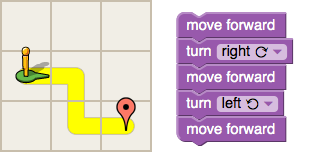
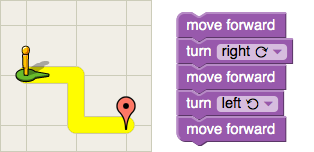
Merge UI upgrades to the Maze fram branch to trunk.

Changed region(s): [[0.0, 0.0, 0.4873, 1.0]]

diff --git a/apps/maze/maze.js b/apps/maze/maze.js
@@ -166,6 +166,8 @@ Maze.map = [
   [0, 2, 1, 1, 1, 0, 1, 0],
   [0, 0, 0, 0, 0, 0, 0, 0]]
 ][Maze.LEVEL];
+// Add blank row at top for hint bubble.
+Maze.map.unshift([0, 0, 0, 0, 0, 0, 0, 0]);
 
 /**
  * Measure maze dimensions and set sizes.
@@ -205,103 +207,25 @@ Maze.startDirection = Maze.DirectionType.EAST;
  */
 Maze.pidList = [];
 
-Maze.deadEnd = function(x, y, angle) {
-  var path = document.createElementNS(Blockly.SVG_NS, 'path');
-  path.setAttribute('d',
-      'M' + (x + Maze.PATH_WIDTH) + ',' + (y + Maze.SQUARE_SIZE) +
-      ' v' + -Maze.SQUARE_SIZE / 2 +
-      ' a' + (Maze.PATH_WIDTH / 2) + ',' + (Maze.PATH_WIDTH / 2) + ' 0 0,1 ' +
-          Maze.PATH_WIDTH + ',0' +
-      ' v' + Maze.SQUARE_SIZE / 2);
-  path.setAttribute('fill', 'yellow');
-  path.setAttribute('stroke-width', 1);
-  path.setAttribute('stroke', '#C8BEAE');
-  path.setAttribute('transform', 'rotate(' + angle + ' ' +
-      (x + Maze.SQUARE_SIZE / 2) + ' ' + (y + Maze.SQUARE_SIZE / 2) + ')');
-  return path;
-};
-
-Maze.thru = function(x, y, angle) {
-  var rect = document.createElementNS(Blockly.SVG_NS, 'rect');
-  rect.setAttribute('x', x + Maze.PATH_WIDTH);
-  rect.setAttribute('y', y);
-  rect.setAttribute('width', Maze.PATH_WIDTH);
-  rect.setAttribute('height', Maze.SQUARE_SIZE);
-  rect.setAttribute('fill', 'yellow');
-  rect.setAttribute('stroke-width', 1);
-  rect.setAttribute('stroke', '#C8BEAE');
-  rect.setAttribute('transform', 'rotate(' + angle + ' ' +
-      (x + Maze.SQUARE_SIZE / 2) + ' ' + (y + Maze.SQUARE_SIZE / 2) + ')');
-  return rect;
-};
-
-Maze.elbow = function(x, y, angle) {
-  var rx = Maze.PATH_WIDTH / 2;
-  var path = document.createElementNS(Blockly.SVG_NS, 'path');
-  path.setAttribute('fill', 'yellow');
-  path.setAttribute('stroke-width', 1);
-  path.setAttribute('stroke', '#C8BEAE');
-  path.setAttribute('d',
-      'M' + (x + Maze.PATH_WIDTH) + ',' + (y + Maze.SQUARE_SIZE) +
-      ' v' + -(Maze.SQUARE_SIZE / 2) +
-      ' a' + rx + ',' + rx + ' 0 0,1 ' + rx + ',' + -rx +
-      ' h' + (Maze.SQUARE_SIZE / 2) +
-      ' v' + Maze.PATH_WIDTH +
-      ' h' + -Maze.PATH_WIDTH +
-      ' v' + Maze.PATH_WIDTH);
-  path.setAttribute('transform', 'rotate(' + angle + ' ' +
-      (x + Maze.SQUARE_SIZE / 2) + ' ' + (y + Maze.SQUARE_SIZE / 2) + ')');
-  return path;
-};
-
-Maze.junction = function(x, y, angle) {
-  var path = document.createElementNS(Blockly.SVG_NS, 'path');
-  path.setAttribute('fill', 'yellow');
-  path.setAttribute('stroke-width', 1);
-  path.setAttribute('stroke', '#C8BEAE');
-  path.setAttribute('d', 'M' + (x + Maze.PATH_WIDTH) + ',' + y +
-      ' h' + Maze.PATH_WIDTH + ' v' + Maze.PATH_WIDTH +
-      ' h' + Maze.PATH_WIDTH + ' v' + Maze.PATH_WIDTH +
-      ' h' + -Maze.PATH_WIDTH + ' v' + Maze.PATH_WIDTH +
-      ' h' + -Maze.PATH_WIDTH + ' v' + -Maze.SQUARE_SIZE);
-  path.setAttribute('transform', 'rotate(' + angle + ' ' +
-      (x + Maze.SQUARE_SIZE / 2) + ' ' + (y + Maze.SQUARE_SIZE / 2) + ')');
-  return path;
-};
-
-Maze.cross = function(x, y, angle) {
-  var path = document.createElementNS(Blockly.SVG_NS, 'path');
-  path.setAttribute('fill', 'yellow');
-  path.setAttribute('stroke-width', 1);
-  path.setAttribute('stroke', '#C8BEAE');
-  path.setAttribute('d', 'M' + (x + Maze.PATH_WIDTH) + ',' + y +
-      ' h' + Maze.PATH_WIDTH + ' v' + Maze.PATH_WIDTH +
-      ' h' + Maze.PATH_WIDTH + ' v' + Maze.PATH_WIDTH +
-      ' h' + -Maze.PATH_WIDTH + ' v' + Maze.PATH_WIDTH +
-      ' h' + -Maze.PATH_WIDTH + ' v' + -Maze.PATH_WIDTH +
-      ' h' + -Maze.PATH_WIDTH + ' v' + -Maze.PATH_WIDTH +
-      ' h' + Maze.PATH_WIDTH + ' v' + -Maze.PATH_WIDTH);
-  path.setAttribute('transform', 'rotate(' + angle + ' ' +
-      (x + Maze.SQUARE_SIZE / 2) + ' ' + (y + Maze.SQUARE_SIZE / 2) + ')');
-  return path;
-};
-
+// Map each possible shape to a sprite.
+// Input: Binary string representing Centre/North/West/South/East squares.
+// Output: [x, y] coordinates of each tile's sprite in tiles.png.
 Maze.tile_SHAPES = {
-  '10010': [Maze.deadEnd, 0],
-  '10001': [Maze.deadEnd, 90],
-  '11000': [Maze.deadEnd, 180],
-  '10100': [Maze.deadEnd, -90],
-  '11010': [Maze.thru, 0],
-  '10101': [Maze.thru, 90],
-  '10110': [Maze.elbow, 0],
-  '10011': [Maze.elbow, 90],
-  '11001': [Maze.elbow, 180],
-  '11100': [Maze.elbow, -90],
-  '11110': [Maze.junction, 0],
-  '10111': [Maze.junction, 90],
-  '11011': [Maze.junction, 180],
-  '11101': [Maze.junction, -90],
-  '11111': [Maze.cross, -90]
+  '10010': [4, 0],  // Dead ends
+  '10001': [3, 3],
+  '11000': [0, 1],
+  '10100': [0, 2],
+  '11010': [4, 1],  // Vertical
+  '10101': [3, 2],  // Horizontal
+  '10110': [0, 0],  // Elbows
+  '10011': [2, 0],
+  '11001': [4, 2],
+  '11100': [2, 3],
+  '11110': [1, 1],  // Junctions
+  '10111': [1, 0],
+  '11011': [2, 1],
+  '11101': [1, 2],
+  '11111': [2, 2]   // Cross
 };
 
 Maze.drawMap = function() {
@@ -313,8 +237,32 @@ Maze.drawMap = function() {
   square.setAttribute('height', Maze.MAZE_HEIGHT);
   square.setAttribute('fill', '#F1EEE7');
   square.setAttribute('stroke-width', 1);
-  square.setAttribute('stroke', '#C8BEAE');
+  square.setAttribute('stroke', '#CCB');
   svg.appendChild(square);
+
+  // Draw the grid lines.
+  // The grid lines are offset so that the lines pass through the centre of
+  // each square.  A half-pixel offset is also added to as standard SVG
+  // practice to avoid blurriness.
+  var offset = Maze.SQUARE_SIZE / 2 + 0.5;
+  for (var k = 0; k < Maze.ROWS; k++) {
+    var h_line = document.createElementNS(Blockly.SVG_NS, 'line');
+    h_line.setAttribute('y1', k * Maze.SQUARE_SIZE + offset);
+    h_line.setAttribute('x2', Maze.MAZE_WIDTH);
+    h_line.setAttribute('y2', k * Maze.SQUARE_SIZE + offset);
+    h_line.setAttribute('stroke', '#CCB');
+    h_line.setAttribute('stroke-width', 1);
+    svg.appendChild(h_line);
+  }
+  for (var k = 0; k < Maze.COLS; k++) {
+    var v_line = document.createElementNS(Blockly.SVG_NS, 'line');
+    v_line.setAttribute('x1', k * Maze.SQUARE_SIZE + offset);
+    v_line.setAttribute('x2', k * Maze.SQUARE_SIZE + offset);
+    v_line.setAttribute('y2', Maze.MAZE_HEIGHT);
+    v_line.setAttribute('stroke', '#CCB');
+    v_line.setAttribute('stroke-width', 1);
+    svg.appendChild(v_line);
+  }
 
   // Draw the tiles making up the maze map.
 
@@ -328,6 +276,7 @@ Maze.drawMap = function() {
   };
 
   // Compute and draw the tile for each square.
+  var tileId = 0;
   for (var y = 0; y < Maze.ROWS; y++) {
     for (var x = 0; x < Maze.COLS; x++) {
       // Compute the tile index.
@@ -339,32 +288,33 @@ Maze.drawMap = function() {
 
       // Draw the tile (or nothing, if wall).
       if (Maze.tile_SHAPES[tile]) {
-        var shape = Maze.tile_SHAPES[tile][0];
-        var angle = Maze.tile_SHAPES[tile][1];
-        svg.appendChild(shape(x * Maze.SQUARE_SIZE,
-                              y * Maze.SQUARE_SIZE, angle));
+        var left = Maze.tile_SHAPES[tile][0];
+        var top = Maze.tile_SHAPES[tile][1];
+        // Tile's clipPath element.
+        var tileClip = document.createElementNS(Blockly.SVG_NS, 'clipPath');
+        tileClip.setAttribute('id', 'tileClipPath' + tileId);
+        var clipRect = document.createElementNS(Blockly.SVG_NS, 'rect');
+        clipRect.setAttribute('width', Maze.SQUARE_SIZE);
+        clipRect.setAttribute('height', Maze.SQUARE_SIZE);
+
+        clipRect.setAttribute('x', x * Maze.SQUARE_SIZE);
+        clipRect.setAttribute('y', y * Maze.SQUARE_SIZE);
+
+        tileClip.appendChild(clipRect);
+        svg.appendChild(tileClip);
+        // Tile sprite.
+        var tile = document.createElementNS(Blockly.SVG_NS, 'image');
+        tile.setAttributeNS('http://www.w3.org/1999/xlink', 'xlink:href',
+            'tiles.png');
+        tile.setAttribute('height', Maze.SQUARE_SIZE * 4);
+        tile.setAttribute('width', Maze.SQUARE_SIZE * 5);
+        tile.setAttribute('clip-path', 'url(#tileClipPath' + tileId + ')');
+        tile.setAttribute('x', (x - left) * Maze.SQUARE_SIZE);
+        tile.setAttribute('y', (y - top) * Maze.SQUARE_SIZE);
+        svg.appendChild(tile);
+        tileId++;
       }
     }
-  }
-
-  // Draw the grid lines.
-  for (var k = 1; k < Maze.ROWS; k++) {
-    var h_line = document.createElementNS(Blockly.SVG_NS, 'line');
-    h_line.setAttribute('y1', k * Maze.SQUARE_SIZE);
-    h_line.setAttribute('x2', Maze.MAZE_WIDTH);
-    h_line.setAttribute('y2', k * Maze.SQUARE_SIZE);
-    h_line.setAttribute('stroke', '#C8BEAE');
-    h_line.setAttribute('stroke-width', 2);
-    svg.appendChild(h_line);
-  }
-  for (var k = 1; k < Maze.COLS; k++) {
-    var v_line = document.createElementNS(Blockly.SVG_NS, 'line');
-    v_line.setAttribute('x1', k * Maze.SQUARE_SIZE);
-    v_line.setAttribute('x2', k * Maze.SQUARE_SIZE);
-    v_line.setAttribute('y2', Maze.MAZE_HEIGHT);
-    v_line.setAttribute('stroke', '#C8BEAE');
-    v_line.setAttribute('stroke-width', 2);
-    svg.appendChild(v_line);
   }
 
   // Add finish marker.

diff --git a/apps/maze/template.js b/apps/maze/template.js
@@ -5,11 +5,11 @@ if (typeof mazepage == 'undefined') { var mazepage = {}; }
 
 
 mazepage.start = function(opt_data, opt_ignored, opt_ijData) {
-  var output = '<table width="100%" height="100%"><tr><td width="410" valign="top"><h1><a href="http://blockly.googlecode.com/">Blockly</a> &gt; <a href="../index.html">Apps</a> &gt; ' + soy.$$escapeHtml(opt_ijData.MSG.title) + '</h1><p class="levelLine">' + soy.$$escapeHtml(opt_ijData.MSG.level) + ': &nbsp;';
+  var output = '<table width="100%" height="100%"><tr><td width="410" valign="top"><h1><a href="http://blockly.googlecode.com/">Blockly</a> &gt; <a href="../index.html">Apps</a> &gt; ' + soy.$$escapeHtml(opt_ijData.MSG.title) + '</h1><div>' + soy.$$escapeHtml(opt_ijData.MSG.level) + ': &nbsp;';
   for (var i8 = 1; i8 < 11; i8++) {
     output += (i8 == opt_ijData.level) ? '<span class="tab" id="selected">' + soy.$$escapeHtml(i8) + '</span>' : '<a class="tab" href="?level=' + soy.$$escapeHtml(i8) + '">' + soy.$$escapeHtml(i8) + '</a>';
   }
-  output += '</p><div id="bubble"><div id="hint">' + soy.$$escapeHtml(opt_ijData.MSG.hints[opt_ijData.level]) + '</div></div><div id="capacity"></div><img id="pegman_bubble" height=42 width=55 src="pegman_bubble.png"><div><svg xmlns="http://www.w3.org/2000/svg" version="1.1" id="svgMaze" width="400px" height="400px"><g id="look"><path d="M 0,-15 a 15 15 0 0 1 15 15" /><path d="M 0,-35 a 35 35 0 0 1 35 35" /><path d="M 0,-55 a 55 55 0 0 1 55 55" /></g></svg></div><table width="100%"><tr><td style="width: 190px; text-align: center"><button title="' + soy.$$escapeHtml(opt_ijData.MSG.codeTooltip) + '" onclick="Blockly.Apps.showCode();"><img src=\'../../media/1x1.gif\' class="code"></button><button id="linkButton" title="' + soy.$$escapeHtml(opt_ijData.MSG.linkTooltip) + '" onclick="BlocklyStorage.link();"><img src=\'../../media/1x1.gif\' class="link"></button><button id="randomizeButton" title="$ij.MSG.randomizeMarkerTooltip" onclick="Maze.randomizeMarkers();" style="display: none"><img src=\'../../media/1x1.gif\' class="random"></button></td><td style="width: 15px;"><img id="spinner" style="visibility: hidden;" src="loading.gif" height=15 width=15></td><td><button id="runButton" class="launch" onclick="Maze.runButtonClick();">' + soy.$$escapeHtml(opt_ijData.MSG.runProgram) + '</button><button id="resetButton" class="launch" onclick="Maze.resetButtonClick();" style="display: none">' + soy.$$escapeHtml(opt_ijData.MSG.resetProgram) + '</button></td></tr></table></td><td valign="top"><script type="text/javascript" src="../../blockly_compressed.js"><\/script><script type="text/javascript" src="../../generators/javascript.js"><\/script><script type="text/javascript" src="../common.js"><\/script><script type="text/javascript">Blockly.Apps.loadLanguageScripts(languageSrc);<\/script><script type="text/javascript" src="blocks.js"><\/script>' + mazepage.toolbox(null, null, opt_ijData) + '<div id="blockly"></div></td></tr></table>';
+  output += '</div><div style="position: relative"><div id="hintBubble"><div id="hint">' + soy.$$escapeHtml(opt_ijData.MSG.hints[opt_ijData.level]) + '</div></div><svg xmlns="http://www.w3.org/2000/svg" version="1.1" id="svgMaze" width="400px" height="450px"><g id="look"><path d="M 0,-15 a 15 15 0 0 1 15 15" /><path d="M 0,-35 a 35 35 0 0 1 35 35" /><path d="M 0,-55 a 55 55 0 0 1 55 55" /></g></svg><div id="capacityBubble"><div id="capacity"></div></div></div><table width="100%"><tr><td style="width: 190px; text-align: center"><button title="' + soy.$$escapeHtml(opt_ijData.MSG.codeTooltip) + '" onclick="Blockly.Apps.showCode();"><img src=\'../../media/1x1.gif\' class="code"></button><button id="linkButton" title="' + soy.$$escapeHtml(opt_ijData.MSG.linkTooltip) + '" onclick="BlocklyStorage.link();"><img src=\'../../media/1x1.gif\' class="link"></button><button id="randomizeButton" title="$ij.MSG.randomizeMarkerTooltip" onclick="Maze.randomizeMarkers();" style="display: none"><img src=\'../../media/1x1.gif\' class="random"></button></td><td style="width: 15px;"><img id="spinner" style="visibility: hidden;" src="loading.gif" height=15 width=15></td><td><button id="runButton" class="launch" onclick="Maze.runButtonClick();">' + soy.$$escapeHtml(opt_ijData.MSG.runProgram) + '</button><button id="resetButton" class="launch" onclick="Maze.resetButtonClick();" style="display: none">' + soy.$$escapeHtml(opt_ijData.MSG.resetProgram) + '</button></td></tr></table></td><td valign="top"><script type="text/javascript" src="../../blockly_compressed.js"><\/script><script type="text/javascript" src="../../generators/javascript.js"><\/script><script type="text/javascript" src="../common.js"><\/script><script type="text/javascript">Blockly.Apps.loadLanguageScripts(languageSrc);<\/script><script type="text/javascript" src="blocks.js"><\/script>' + mazepage.toolbox(null, null, opt_ijData) + '<div id="blockly"></div></td></tr></table>';
   return output;
 };
 

diff --git a/apps/maze/style.css b/apps/maze/style.css
@@ -13,9 +13,7 @@ a:hover {
 .tab {
   padding: 4px 10px 1px;
   text-decoration: none;
-}
-.levelLine {
-  border-bottom: solid 1px #ddd;
+  color: #000;
 }
 #selected {
   font-weight: bold;
@@ -23,34 +21,39 @@ a:hover {
   border-top-left-radius: 5px;
   border-top-right-radius: 5px;
 }
+#hintBubble {
+  position: absolute;
+  left: 10px;
+  top: 10px;
+  border-radius: 15px;
+  background-color: rgba(64,64,64,0.7);
+  width: 380px;
+}
 #hint {
-  font-style: italic;
+  color: #fff;
+  padding: 5px 1em;
+  font-size: large;
+}
+#capacityBubble {
+  position: absolute;
+  margin-top: -0.5em;
+  left: 10px;
+  top: 425px;
+  width: 380px;
 }
 #capacity {
-  padding: 15px 1ex 0;
-  float: right;
+  display: none;
+  color: #fff;
+  padding: 5px 1em;
+  border-radius: 15px;
+  background-color: rgba(64,64,64,0.7);
+  font-size: large;
 }
 html[dir=rtl] #capacity {
   float: left;
 }
 #capacityNumber {
   font-weight: bold;
-}
-#bubble {
-  width: 385px;
-  padding: 7px;
-  border: 1px solid #CCB;
-  border-radius: 15px;
-  background-color: #ff7;
-}
-#pegman_bubble {
-  position: relative;
-  top: -1px;
-  margin-left: 20px;
-  margin-right: 20px;
-}
-html[dir=rtl] #pegman_bubble {
-  transform: scaleX(-1);
 }
 
 /* 'Look' icon */
